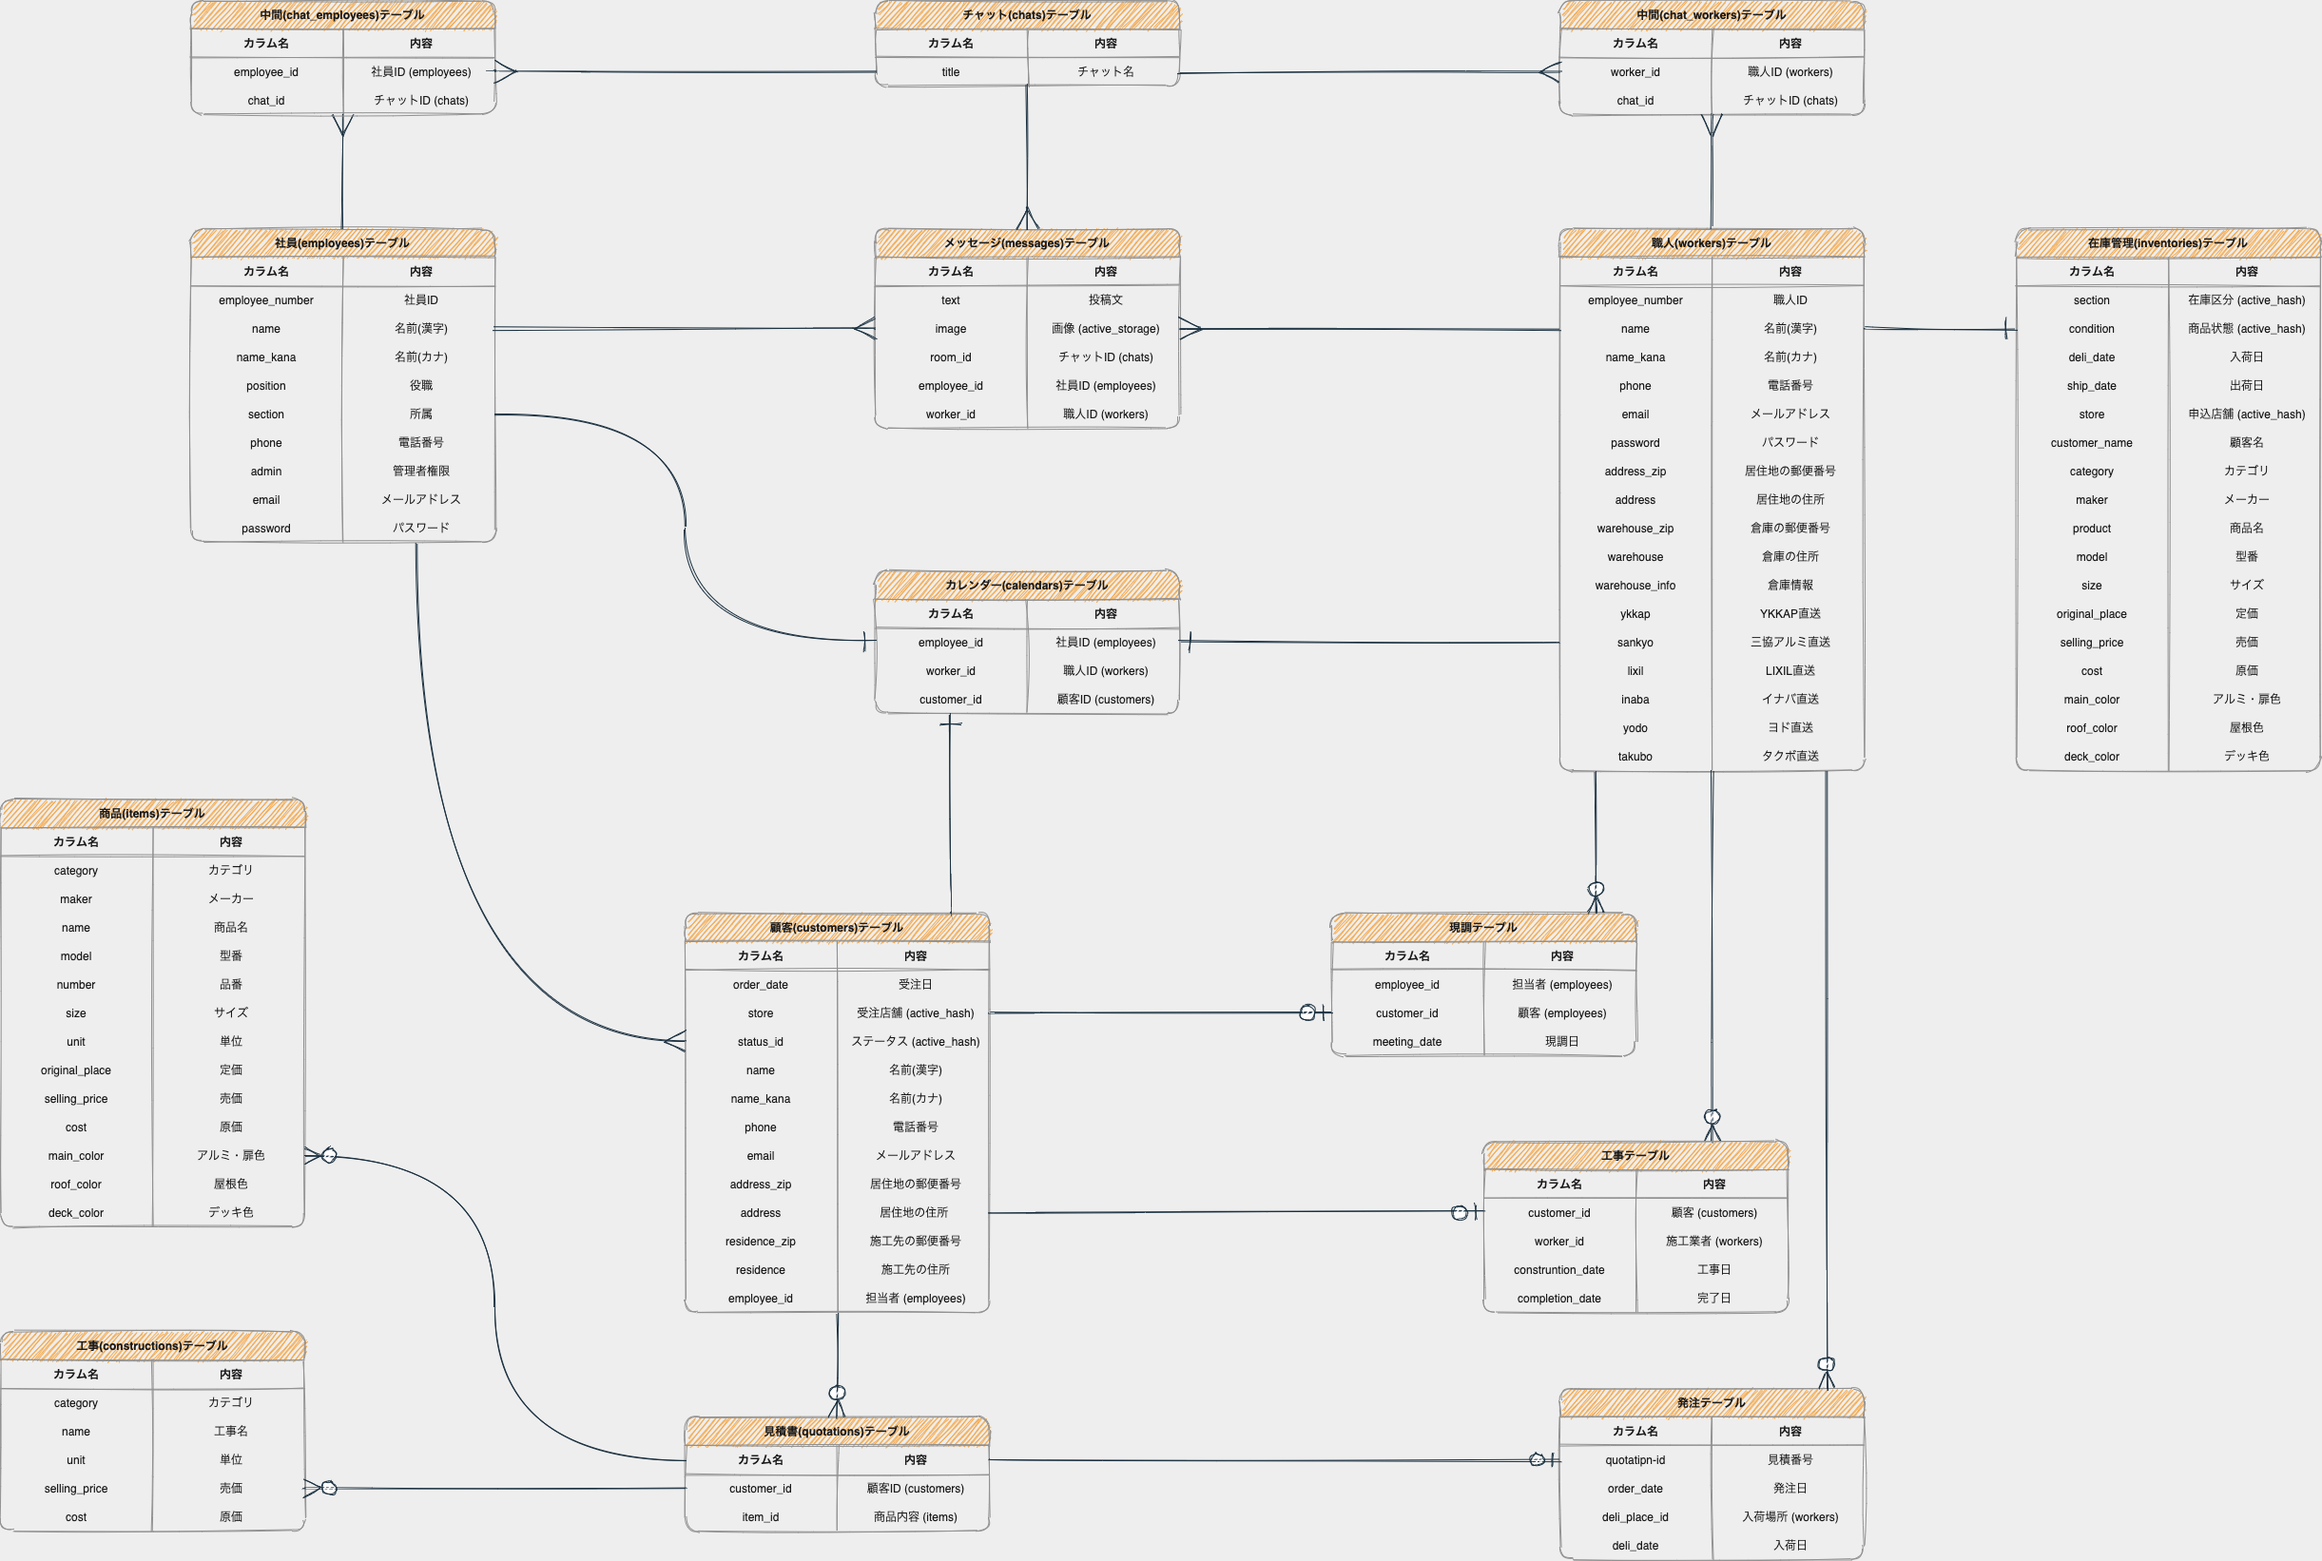
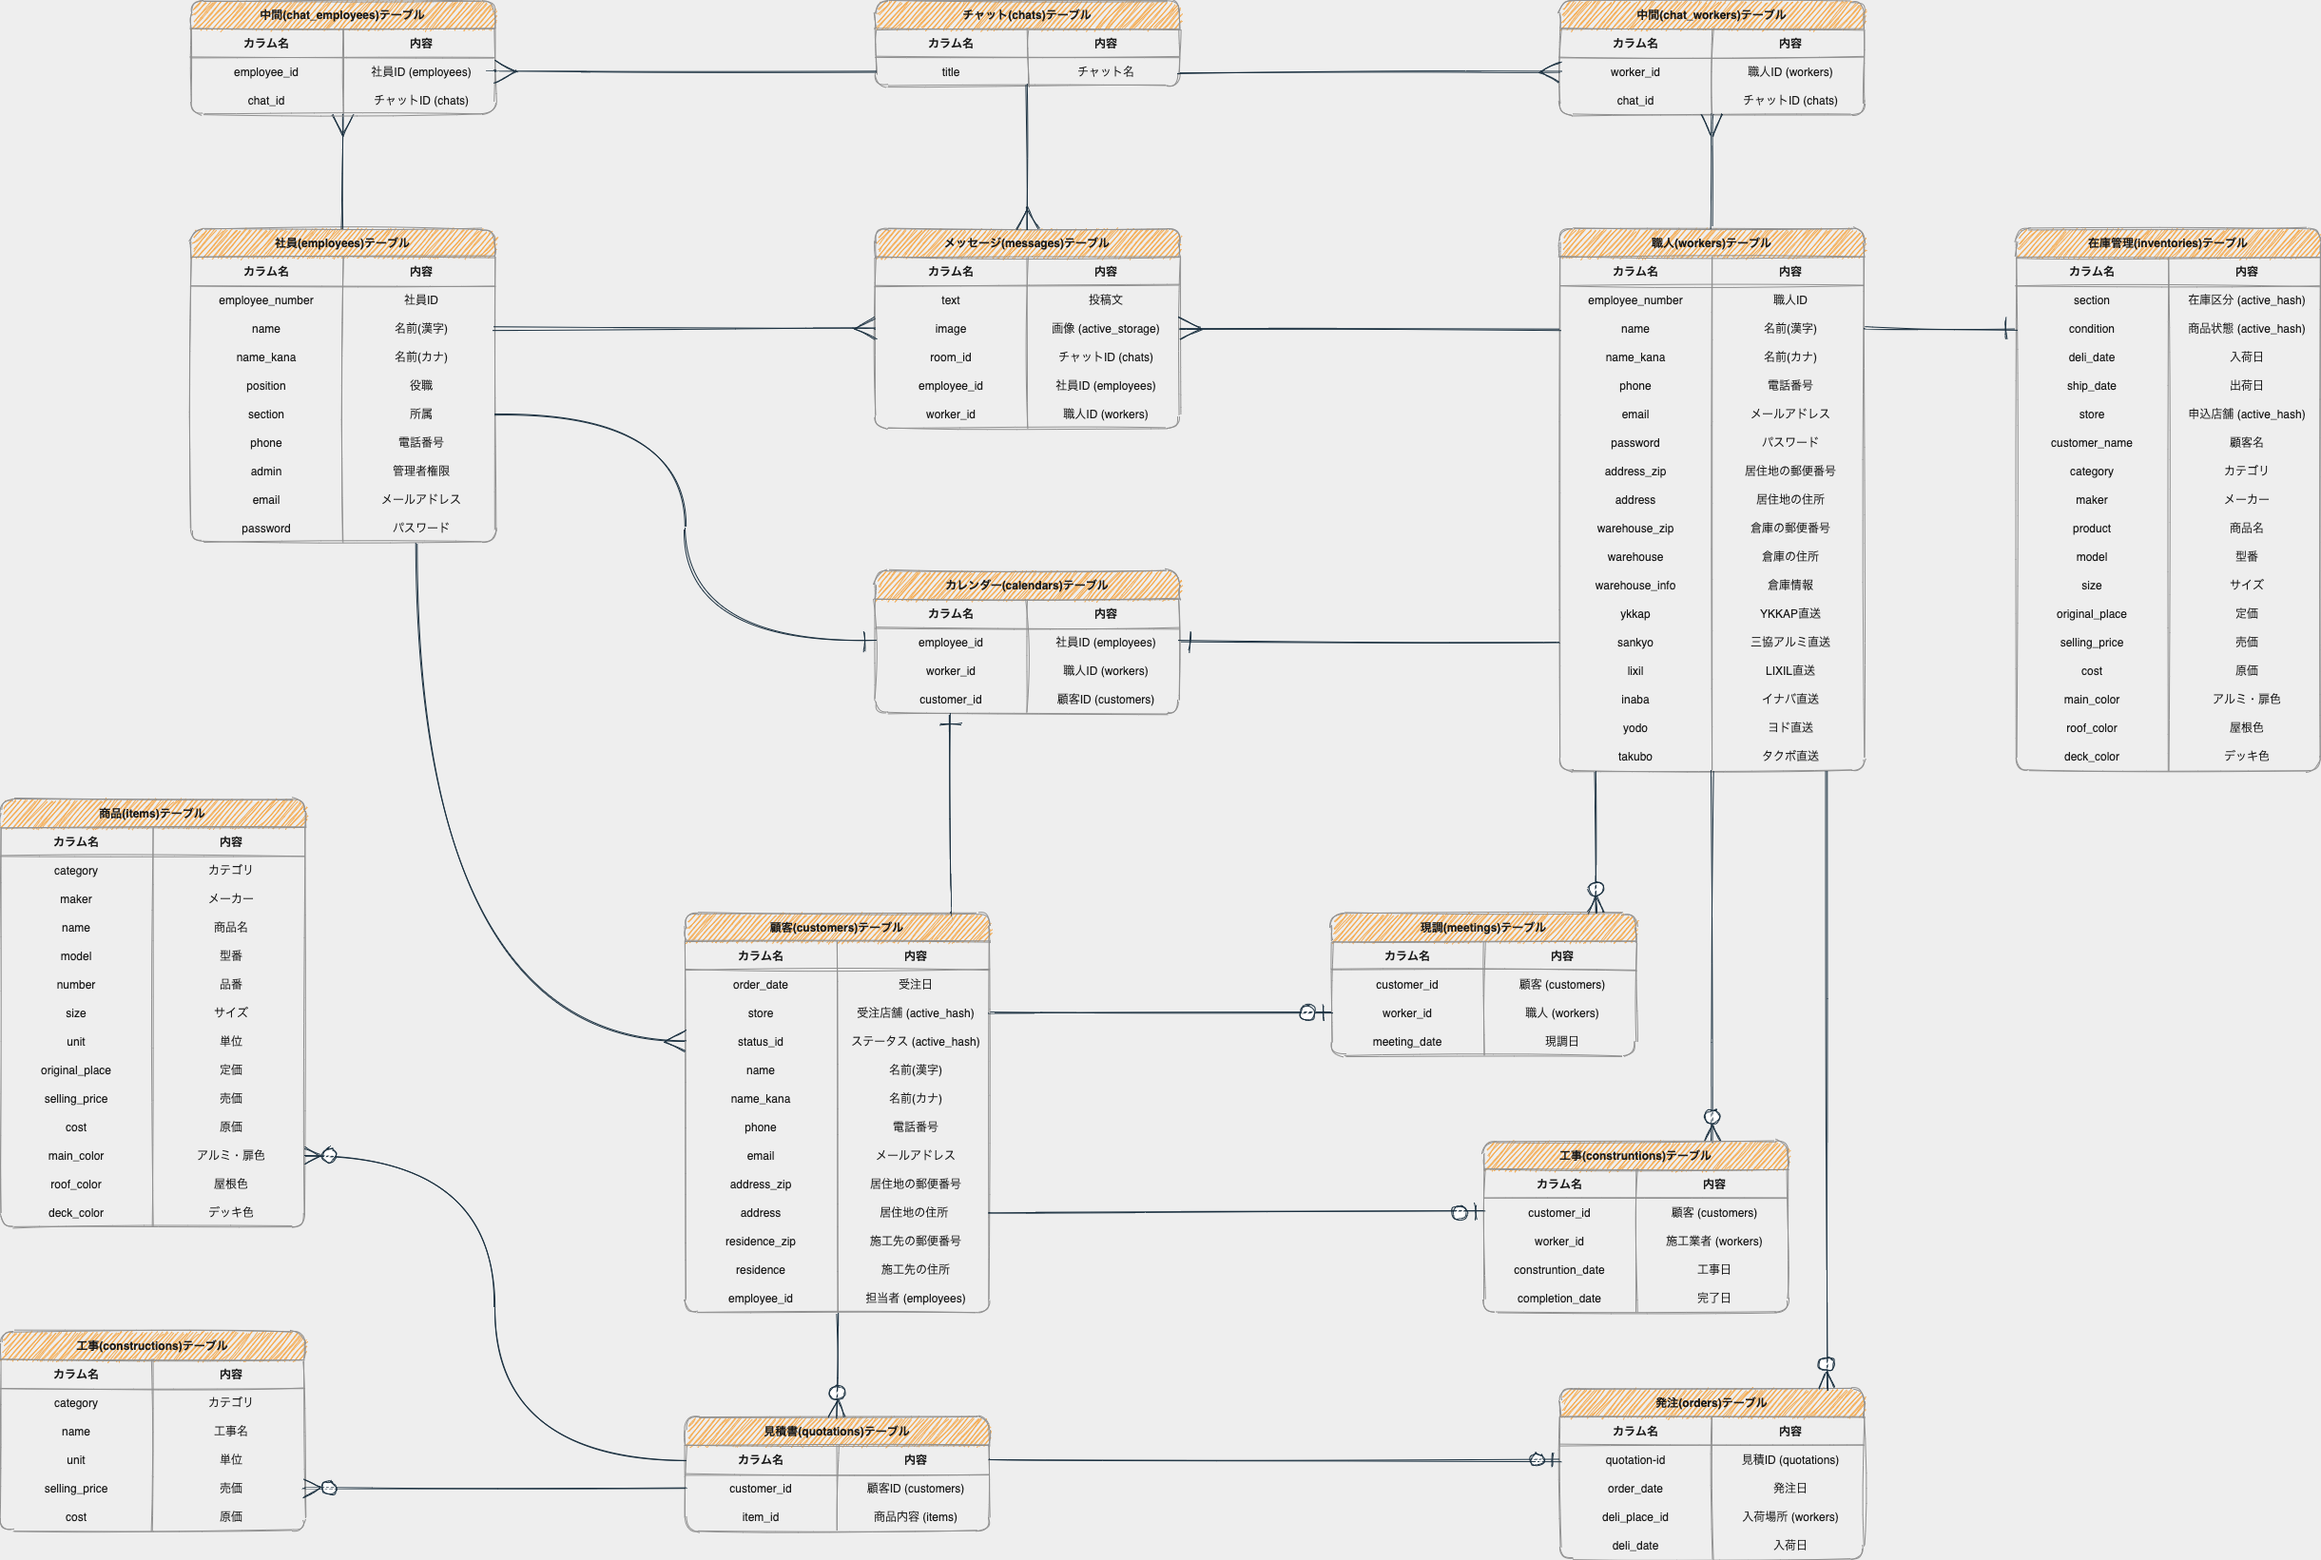
README編集

diff --git a/README.md b/README.md
@@ -26,10 +26,10 @@ URL:https://t-coresys.com
 働いていて不便に感じたのが、痒いところに届かない顧客管理システム、  
 予定表、在庫管理、連絡ツールなどメインで使用するアプリが  
 全て別のアプリで行われていたことで、用途に応じて開くアプリを  
-切り替えなければいけない面倒さでした。  
+切り替えなければいけない煩わしさでした。  
   
 この経験を踏まえ、全ての業務をひとつで行うことが出来て  
-資料を探しにいかなくても、アプリを見れば全てわかるアプリがあれば,  
+これを見れば全ての情報がわかるというアプリがあれば,  
 この思いを解決できるのではないかと思い、このアプリを制作しました。
 
 # ✍目指した課題解決
@@ -82,4 +82,4 @@ URL:https://t-coresys.com
  - Nginx, Unicorn, MariaDB
 
 # 🗂ER図
-![ER](https://user-images.githubusercontent.com/75982790/107915511-f70d5600-6fa7-11eb-95ab-97031e67114e.png)
+![ER](https://user-images.githubusercontent.com/75982790/107969345-0239a380-6ff3-11eb-9e4e-e970ba3766c4.png)
